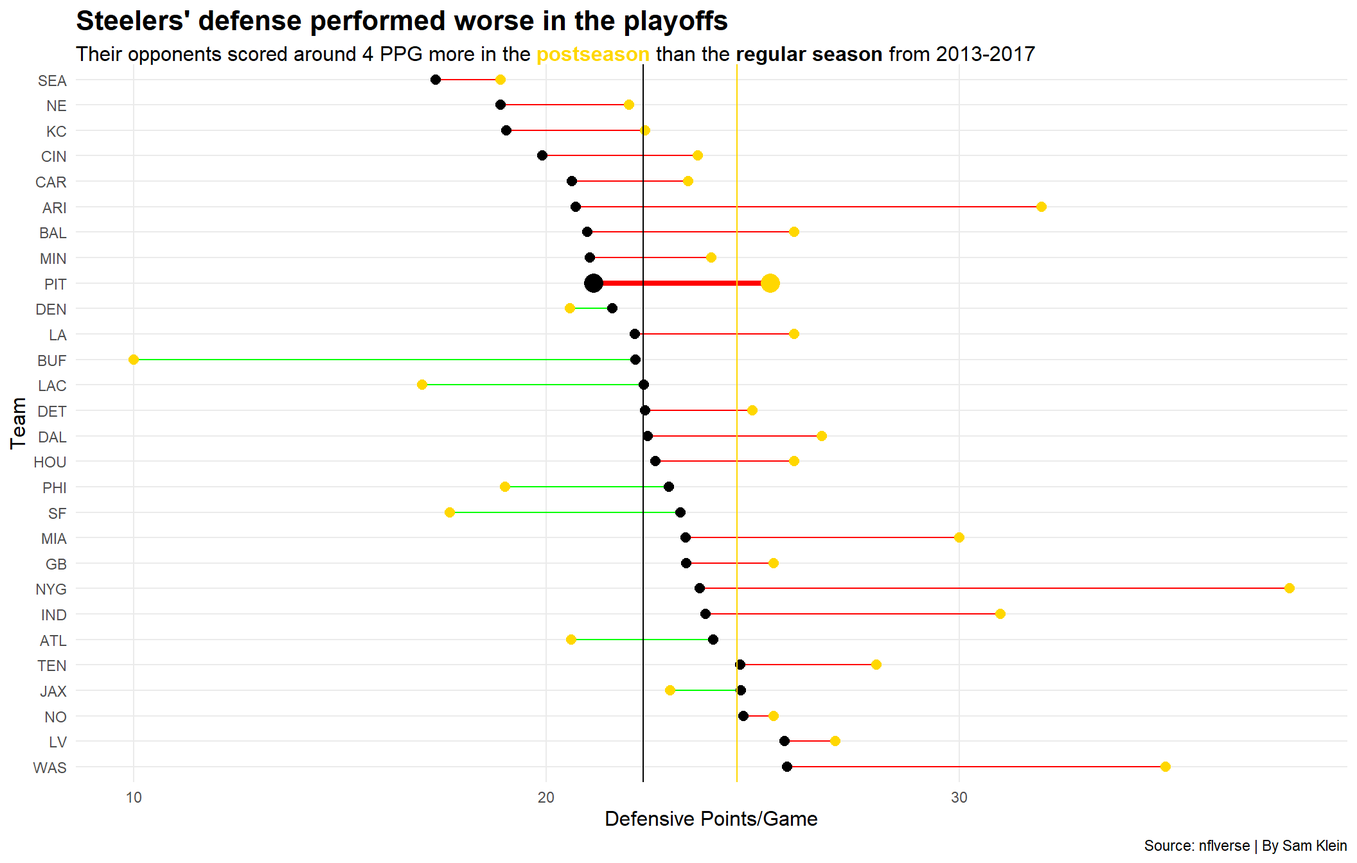
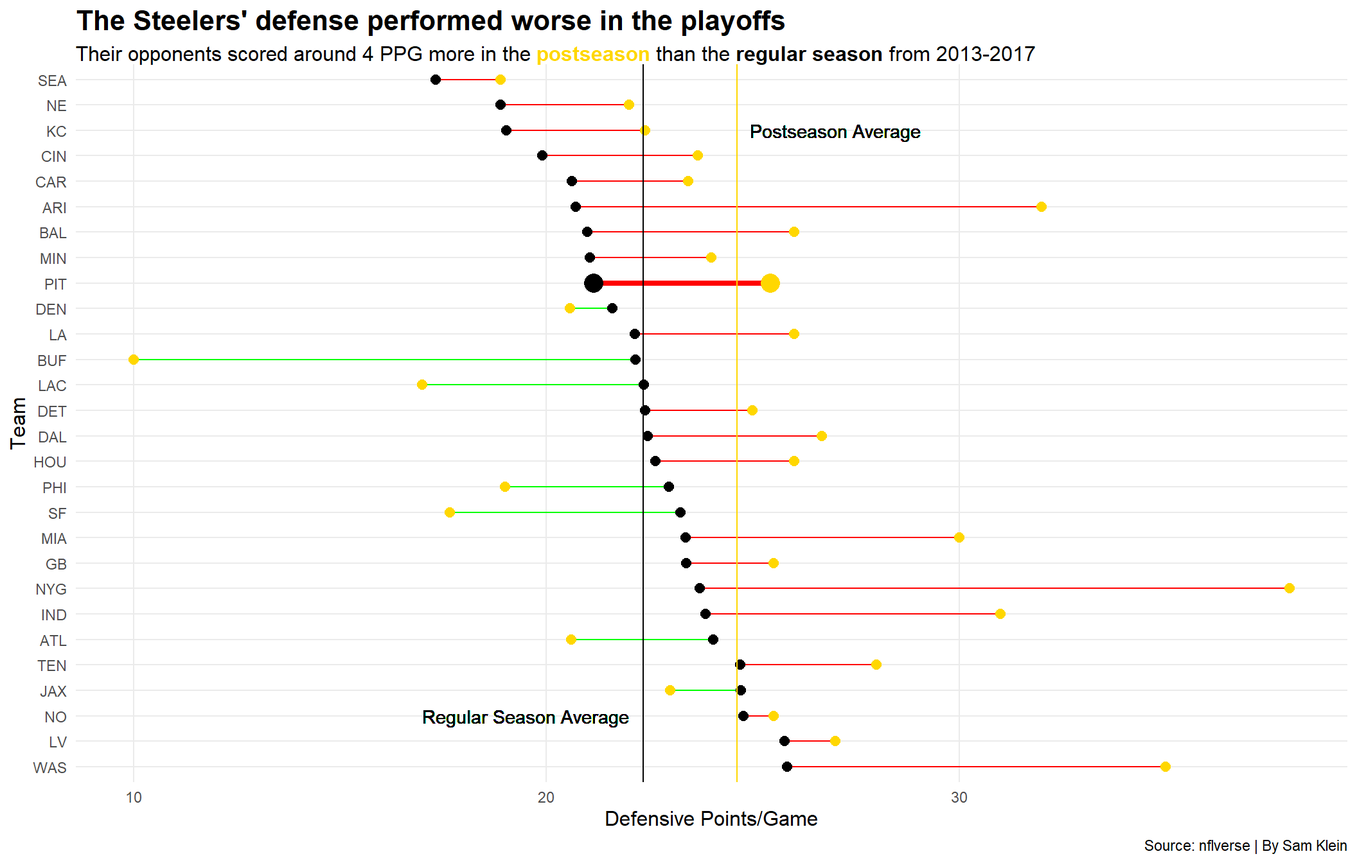
initial commit

Changed region(s): [[0.0625, 0.0, 0.5938, 0.0625], [0.3125, 0.8125, 0.4688, 0.8438], [0.5625, 0.125, 0.6875, 0.1562]]

diff --git a/posts/pittsburgh-steelers-killer-bs/index.html b/posts/pittsburgh-steelers-killer-bs/index.html
@@ -195,8 +195,13 @@ pre > code.sourceCode > span > a:first-child::before { text-decoration: underlin
 
 
 
-<p>The Pittsburgh Steelers are the best team in the NFL by far (no bias here).</p>
-<p>Here’s how good they are:</p>
+<p>The Pittsburgh Steelers are one of the most storied franchises in the NFL, with their 6 Super Bowls tying the Patriots for the most in the league. In recent years, however, the Steelers have taken a notable downturn. Their last Super Bowl win was in 2008, their last Super Bowl appearance was in 2010, and their last playoff win was in 2016. In Pittsburgh, the standard is Super Bowls, and the organization simply isn’t maintaining that standard.</p>
+<p>This isn’t to stay that the Steelers haven’t had their chances. Since their last Super Bowl appearance in 2010, the Steelers have reached the playoffs in 9 out of 14 years. The Steelers won the competitive AFC North in 4 of those years, with 3 titles from 2013-2017.</p>
+<p>This period is crucial. In the NFL - or any professional sports league for that matter - championship windows come and go quickly. An organization needs to recognize when they have a team capable of winning it all so that they can go all-in to ensure the team accomplishes its goal.</p>
+<p>So what was so different about these 5 years?</p>
+<p>Enter “The Killer B’s”, the extremely potent offensive trio of quarterback Ben Roethlisberger, running back Le’Veon Bell, and wide receiver Antonio Brown.</p>
+<p>When this trio took the field, they were borderline unstoppable, and their accolades proved it. From 2013-2017, Roethlisberger, Bell, and Brown earned a combined 6 first-team All-Pro selections - for reference, the highly-regarded Cowboys’ “Triplets” earned a combined 5 first-team All-Pro selections in 10 seasons. The Killer B’s weren’t just insanely good - they were historically good.</p>
+<p>Needless to say, The Killer B’s were head and shoulders above the rest in yards from 2013-2017.</p>
 <div class="cell">
 <details class="code-fold">
 <summary>Code</summary>
@@ -465,6 +470,9 @@ pre > code.sourceCode > span > a:first-child::before { text-decoration: underlin
 </div>
 </div>
 </div>
+<p>So, what exactly held this team back?</p>
+<p>Football isn’t basketball - a team needs more than a couple of superstars to carry them over the hump and, importantly, there’s still a whole other phase of the game to consider.</p>
+<p>The Steelers defense from 2013-2017 isn’t as flashy. In the same span that The Killer B’s had 6 combined first-team All-Pro selections, the Steelers’ defense had ONE: Cameron Heyward in 2017. Surely, this lack of production on the defensive side would hold them back, right?</p>
 <div class="cell">
 <details class="code-fold">
 <summary>Code</summary>
@@ -527,33 +535,33 @@ pre > code.sourceCode > span > a:first-child::before { text-decoration: underlin
 <span id="cb2-57"><a href="#cb2-57" aria-hidden="true" tabindex="-1"></a>    <span class="at">alpha =</span> .<span class="dv">3</span></span>
 <span id="cb2-58"><a href="#cb2-58" aria-hidden="true" tabindex="-1"></a>  ) <span class="sc">+</span></span>
 <span id="cb2-59"><a href="#cb2-59" aria-hidden="true" tabindex="-1"></a>  <span class="fu">geom_point</span>(</span>
-<span id="cb2-60"><a href="#cb2-60" aria-hidden="true" tabindex="-1"></a>    <span class="at">data =</span> steelers,</span>
+<span id="cb2-60"><a href="#cb2-60" aria-hidden="true" tabindex="-1"></a>    <span class="at">data =</span> ravens,</span>
 <span id="cb2-61"><a href="#cb2-61" aria-hidden="true" tabindex="-1"></a>    <span class="fu">aes</span>(<span class="at">x =</span> offppg, <span class="at">y =</span> defppg, <span class="at">size =</span> wins),</span>
-<span id="cb2-62"><a href="#cb2-62" aria-hidden="true" tabindex="-1"></a>    <span class="at">color =</span> <span class="st">"#FFB612"</span></span>
+<span id="cb2-62"><a href="#cb2-62" aria-hidden="true" tabindex="-1"></a>    <span class="at">color =</span> <span class="st">"#241773"</span></span>
 <span id="cb2-63"><a href="#cb2-63" aria-hidden="true" tabindex="-1"></a>  ) <span class="sc">+</span></span>
 <span id="cb2-64"><a href="#cb2-64" aria-hidden="true" tabindex="-1"></a>  <span class="fu">geom_point</span>(</span>
-<span id="cb2-65"><a href="#cb2-65" aria-hidden="true" tabindex="-1"></a>    <span class="at">data =</span> ravens,</span>
+<span id="cb2-65"><a href="#cb2-65" aria-hidden="true" tabindex="-1"></a>    <span class="at">data =</span> bengals,</span>
 <span id="cb2-66"><a href="#cb2-66" aria-hidden="true" tabindex="-1"></a>    <span class="fu">aes</span>(<span class="at">x =</span> offppg, <span class="at">y =</span> defppg, <span class="at">size =</span> wins),</span>
-<span id="cb2-67"><a href="#cb2-67" aria-hidden="true" tabindex="-1"></a>    <span class="at">color =</span> <span class="st">"#241773"</span></span>
+<span id="cb2-67"><a href="#cb2-67" aria-hidden="true" tabindex="-1"></a>    <span class="at">color =</span> <span class="st">"#FB4F14"</span></span>
 <span id="cb2-68"><a href="#cb2-68" aria-hidden="true" tabindex="-1"></a>  ) <span class="sc">+</span></span>
 <span id="cb2-69"><a href="#cb2-69" aria-hidden="true" tabindex="-1"></a>  <span class="fu">geom_point</span>(</span>
-<span id="cb2-70"><a href="#cb2-70" aria-hidden="true" tabindex="-1"></a>    <span class="at">data =</span> bengals,</span>
+<span id="cb2-70"><a href="#cb2-70" aria-hidden="true" tabindex="-1"></a>    <span class="at">data =</span> browns,</span>
 <span id="cb2-71"><a href="#cb2-71" aria-hidden="true" tabindex="-1"></a>    <span class="fu">aes</span>(<span class="at">x =</span> offppg, <span class="at">y =</span> defppg, <span class="at">size =</span> wins),</span>
-<span id="cb2-72"><a href="#cb2-72" aria-hidden="true" tabindex="-1"></a>    <span class="at">color =</span> <span class="st">"#FB4F14"</span></span>
+<span id="cb2-72"><a href="#cb2-72" aria-hidden="true" tabindex="-1"></a>    <span class="at">color =</span> <span class="st">"#311D00"</span></span>
 <span id="cb2-73"><a href="#cb2-73" aria-hidden="true" tabindex="-1"></a>  ) <span class="sc">+</span></span>
 <span id="cb2-74"><a href="#cb2-74" aria-hidden="true" tabindex="-1"></a>  <span class="fu">geom_point</span>(</span>
-<span id="cb2-75"><a href="#cb2-75" aria-hidden="true" tabindex="-1"></a>    <span class="at">data =</span> browns,</span>
+<span id="cb2-75"><a href="#cb2-75" aria-hidden="true" tabindex="-1"></a>    <span class="at">data =</span> patriots,</span>
 <span id="cb2-76"><a href="#cb2-76" aria-hidden="true" tabindex="-1"></a>    <span class="fu">aes</span>(<span class="at">x =</span> offppg, <span class="at">y =</span> defppg, <span class="at">size =</span> wins),</span>
-<span id="cb2-77"><a href="#cb2-77" aria-hidden="true" tabindex="-1"></a>    <span class="at">color =</span> <span class="st">"#311D00"</span></span>
+<span id="cb2-77"><a href="#cb2-77" aria-hidden="true" tabindex="-1"></a>    <span class="at">color =</span> <span class="st">"#002244"</span></span>
 <span id="cb2-78"><a href="#cb2-78" aria-hidden="true" tabindex="-1"></a>  ) <span class="sc">+</span></span>
 <span id="cb2-79"><a href="#cb2-79" aria-hidden="true" tabindex="-1"></a>  <span class="fu">geom_point</span>(</span>
-<span id="cb2-80"><a href="#cb2-80" aria-hidden="true" tabindex="-1"></a>    <span class="at">data =</span> patriots,</span>
+<span id="cb2-80"><a href="#cb2-80" aria-hidden="true" tabindex="-1"></a>    <span class="at">data =</span> steelers,</span>
 <span id="cb2-81"><a href="#cb2-81" aria-hidden="true" tabindex="-1"></a>    <span class="fu">aes</span>(<span class="at">x =</span> offppg, <span class="at">y =</span> defppg, <span class="at">size =</span> wins),</span>
-<span id="cb2-82"><a href="#cb2-82" aria-hidden="true" tabindex="-1"></a>    <span class="at">color =</span> <span class="st">"#002244"</span></span>
+<span id="cb2-82"><a href="#cb2-82" aria-hidden="true" tabindex="-1"></a>    <span class="at">color =</span> <span class="st">"#FFB612"</span></span>
 <span id="cb2-83"><a href="#cb2-83" aria-hidden="true" tabindex="-1"></a>  ) <span class="sc">+</span></span>
 <span id="cb2-84"><a href="#cb2-84" aria-hidden="true" tabindex="-1"></a>  <span class="fu">geom_text_repel</span>(</span>
 <span id="cb2-85"><a href="#cb2-85" aria-hidden="true" tabindex="-1"></a>    <span class="at">data =</span> steelers,</span>
-<span id="cb2-86"><a href="#cb2-86" aria-hidden="true" tabindex="-1"></a>    <span class="fu">aes</span>(<span class="at">x =</span> offppg, <span class="at">y =</span> defppg <span class="sc">+</span> .<span class="dv">2</span>, <span class="at">label =</span> team)</span>
+<span id="cb2-86"><a href="#cb2-86" aria-hidden="true" tabindex="-1"></a>    <span class="fu">aes</span>(<span class="at">x =</span> offppg<span class="fl">-.1</span>, <span class="at">y =</span> defppg <span class="sc">+</span> .<span class="dv">2</span>, <span class="at">label =</span> team)</span>
 <span id="cb2-87"><a href="#cb2-87" aria-hidden="true" tabindex="-1"></a>  ) <span class="sc">+</span></span>
 <span id="cb2-88"><a href="#cb2-88" aria-hidden="true" tabindex="-1"></a>  <span class="fu">geom_text_repel</span>(</span>
 <span id="cb2-89"><a href="#cb2-89" aria-hidden="true" tabindex="-1"></a>    <span class="at">data =</span> ravens,</span>
@@ -571,23 +579,43 @@ pre > code.sourceCode > span > a:first-child::before { text-decoration: underlin
 <span id="cb2-101"><a href="#cb2-101" aria-hidden="true" tabindex="-1"></a>    <span class="at">data =</span> patriots,</span>
 <span id="cb2-102"><a href="#cb2-102" aria-hidden="true" tabindex="-1"></a>    <span class="fu">aes</span>(<span class="at">x =</span> offppg <span class="sc">-</span> .<span class="dv">1</span>, <span class="at">y =</span> defppg, <span class="at">label =</span> team)</span>
 <span id="cb2-103"><a href="#cb2-103" aria-hidden="true" tabindex="-1"></a>  ) <span class="sc">+</span></span>
-<span id="cb2-104"><a href="#cb2-104" aria-hidden="true" tabindex="-1"></a>  <span class="fu">geom_vline</span>(<span class="at">xintercept =</span> mean_offppg) <span class="sc">+</span></span>
-<span id="cb2-105"><a href="#cb2-105" aria-hidden="true" tabindex="-1"></a>  <span class="fu">geom_hline</span>(<span class="at">yintercept =</span> mean_defppg) <span class="sc">+</span></span>
-<span id="cb2-106"><a href="#cb2-106" aria-hidden="true" tabindex="-1"></a>  <span class="fu">scale_size</span>(<span class="at">range =</span> <span class="fu">c</span>(<span class="dv">1</span>, <span class="dv">10</span>), <span class="at">name =</span> <span class="st">"Wins"</span>) <span class="sc">+</span></span>
-<span id="cb2-107"><a href="#cb2-107" aria-hidden="true" tabindex="-1"></a>  <span class="fu">labs</span>(</span>
-<span id="cb2-108"><a href="#cb2-108" aria-hidden="true" tabindex="-1"></a>    <span class="at">x =</span> <span class="st">"Offensive Points/Game"</span>,</span>
-<span id="cb2-109"><a href="#cb2-109" aria-hidden="true" tabindex="-1"></a>    <span class="at">y =</span> <span class="st">"Defensive Points/Game"</span>,</span>
-<span id="cb2-110"><a href="#cb2-110" aria-hidden="true" tabindex="-1"></a>    <span class="at">title =</span> <span class="st">"The Steelers' offense and defense were strongly above the league average"</span>,</span>
-<span id="cb2-111"><a href="#cb2-111" aria-hidden="true" tabindex="-1"></a>    <span class="at">subtitle =</span> <span class="st">"While not at the top of the league, Pittsburgh firmly established itself as a perennial playoff team from 2013-2017"</span>,</span>
-<span id="cb2-112"><a href="#cb2-112" aria-hidden="true" tabindex="-1"></a>    <span class="at">caption =</span> <span class="st">"Source: nflverse | By Sam Klein"</span></span>
+<span id="cb2-104"><a href="#cb2-104" aria-hidden="true" tabindex="-1"></a>  <span class="fu">geom_text_repel</span>(</span>
+<span id="cb2-105"><a href="#cb2-105" aria-hidden="true" tabindex="-1"></a>    <span class="at">data =</span> <span class="cn">NULL</span>, </span>
+<span id="cb2-106"><a href="#cb2-106" aria-hidden="true" tabindex="-1"></a>    <span class="fu">aes</span>(<span class="at">x =</span> <span class="fl">27.5</span>, <span class="at">y =</span> <span class="dv">21</span>, <span class="at">label =</span> <span class="st">"Good Offense, Good Defense"</span>, <span class="at">size =</span> <span class="dv">25</span>),</span>
+<span id="cb2-107"><a href="#cb2-107" aria-hidden="true" tabindex="-1"></a>    <span class="at">show.legend =</span> <span class="cn">FALSE</span></span>
+<span id="cb2-108"><a href="#cb2-108" aria-hidden="true" tabindex="-1"></a>  ) <span class="sc">+</span></span>
+<span id="cb2-109"><a href="#cb2-109" aria-hidden="true" tabindex="-1"></a>  <span class="fu">geom_text_repel</span>(</span>
+<span id="cb2-110"><a href="#cb2-110" aria-hidden="true" tabindex="-1"></a>    <span class="at">data =</span> <span class="cn">NULL</span>, </span>
+<span id="cb2-111"><a href="#cb2-111" aria-hidden="true" tabindex="-1"></a>    <span class="fu">aes</span>(<span class="at">x =</span> <span class="dv">25</span>, <span class="at">y =</span> <span class="fl">25.5</span>, <span class="at">label =</span> <span class="st">"Good Offense, Bad Defense"</span>, <span class="at">size =</span> <span class="dv">25</span>),</span>
+<span id="cb2-112"><a href="#cb2-112" aria-hidden="true" tabindex="-1"></a>    <span class="at">show.legend =</span> <span class="cn">FALSE</span></span>
 <span id="cb2-113"><a href="#cb2-113" aria-hidden="true" tabindex="-1"></a>  ) <span class="sc">+</span></span>
-<span id="cb2-114"><a href="#cb2-114" aria-hidden="true" tabindex="-1"></a>  <span class="fu">theme_minimal</span>() <span class="sc">+</span></span>
-<span id="cb2-115"><a href="#cb2-115" aria-hidden="true" tabindex="-1"></a>  <span class="fu">theme</span>(</span>
-<span id="cb2-116"><a href="#cb2-116" aria-hidden="true" tabindex="-1"></a>    <span class="at">plot.title =</span> <span class="fu">element_text</span>(<span class="at">size =</span> <span class="dv">16</span>, <span class="at">face =</span> <span class="st">"bold"</span>),</span>
-<span id="cb2-117"><a href="#cb2-117" aria-hidden="true" tabindex="-1"></a>    <span class="at">axis.title =</span> <span class="fu">element_text</span>(<span class="at">size =</span> <span class="dv">12</span>),</span>
-<span id="cb2-118"><a href="#cb2-118" aria-hidden="true" tabindex="-1"></a>    <span class="at">plot.subtitle =</span> <span class="fu">element_text</span>(<span class="at">size =</span> <span class="dv">12</span>),</span>
-<span id="cb2-119"><a href="#cb2-119" aria-hidden="true" tabindex="-1"></a>    <span class="at">panel.grid.minor =</span> <span class="fu">element_blank</span>()</span>
-<span id="cb2-120"><a href="#cb2-120" aria-hidden="true" tabindex="-1"></a>  )</span></code><button title="Copy to Clipboard" class="code-copy-button"><i class="bi"></i></button></pre></div>
+<span id="cb2-114"><a href="#cb2-114" aria-hidden="true" tabindex="-1"></a>  <span class="fu">geom_text_repel</span>(</span>
+<span id="cb2-115"><a href="#cb2-115" aria-hidden="true" tabindex="-1"></a>    <span class="at">data =</span> <span class="cn">NULL</span>, </span>
+<span id="cb2-116"><a href="#cb2-116" aria-hidden="true" tabindex="-1"></a>    <span class="fu">aes</span>(<span class="at">x =</span> <span class="dv">20</span>, <span class="at">y =</span> <span class="dv">20</span>, <span class="at">label =</span> <span class="st">"Bad Offense, Good Defense"</span>, <span class="at">size =</span> <span class="dv">25</span>),</span>
+<span id="cb2-117"><a href="#cb2-117" aria-hidden="true" tabindex="-1"></a>    <span class="at">show.legend =</span> <span class="cn">FALSE</span></span>
+<span id="cb2-118"><a href="#cb2-118" aria-hidden="true" tabindex="-1"></a>  ) <span class="sc">+</span></span>
+<span id="cb2-119"><a href="#cb2-119" aria-hidden="true" tabindex="-1"></a>  <span class="fu">geom_text_repel</span>(</span>
+<span id="cb2-120"><a href="#cb2-120" aria-hidden="true" tabindex="-1"></a>    <span class="at">data =</span> <span class="cn">NULL</span>, </span>
+<span id="cb2-121"><a href="#cb2-121" aria-hidden="true" tabindex="-1"></a>    <span class="fu">aes</span>(<span class="at">x =</span> <span class="fl">16.5</span>, <span class="at">y =</span> <span class="fl">24.25</span>, <span class="at">label =</span> <span class="st">"Bad Offense, Bad Defense"</span>, <span class="at">size =</span> <span class="dv">25</span>),</span>
+<span id="cb2-122"><a href="#cb2-122" aria-hidden="true" tabindex="-1"></a>    <span class="at">show.legend =</span> <span class="cn">FALSE</span></span>
+<span id="cb2-123"><a href="#cb2-123" aria-hidden="true" tabindex="-1"></a>  ) <span class="sc">+</span></span>
+<span id="cb2-124"><a href="#cb2-124" aria-hidden="true" tabindex="-1"></a>  <span class="fu">geom_vline</span>(<span class="at">xintercept =</span> mean_offppg) <span class="sc">+</span></span>
+<span id="cb2-125"><a href="#cb2-125" aria-hidden="true" tabindex="-1"></a>  <span class="fu">geom_hline</span>(<span class="at">yintercept =</span> mean_defppg) <span class="sc">+</span></span>
+<span id="cb2-126"><a href="#cb2-126" aria-hidden="true" tabindex="-1"></a>  <span class="fu">scale_size</span>(<span class="at">range =</span> <span class="fu">c</span>(<span class="dv">1</span>, <span class="dv">10</span>), <span class="at">name =</span> <span class="st">"Wins"</span>) <span class="sc">+</span></span>
+<span id="cb2-127"><a href="#cb2-127" aria-hidden="true" tabindex="-1"></a>  <span class="fu">labs</span>(</span>
+<span id="cb2-128"><a href="#cb2-128" aria-hidden="true" tabindex="-1"></a>    <span class="at">x =</span> <span class="st">"Offensive Points/Game"</span>,</span>
+<span id="cb2-129"><a href="#cb2-129" aria-hidden="true" tabindex="-1"></a>    <span class="at">y =</span> <span class="st">"Defensive Points/Game"</span>,</span>
+<span id="cb2-130"><a href="#cb2-130" aria-hidden="true" tabindex="-1"></a>    <span class="at">title =</span> <span class="st">"The Steelers' offense and defense were strongly above the league average"</span>,</span>
+<span id="cb2-131"><a href="#cb2-131" aria-hidden="true" tabindex="-1"></a>    <span class="at">subtitle =</span> <span class="st">"While not at the top of the league, Pittsburgh firmly established itself as a perennial playoff team from 2013-2017"</span>,</span>
+<span id="cb2-132"><a href="#cb2-132" aria-hidden="true" tabindex="-1"></a>    <span class="at">caption =</span> <span class="st">"Source: nflverse | By Sam Klein"</span></span>
+<span id="cb2-133"><a href="#cb2-133" aria-hidden="true" tabindex="-1"></a>  ) <span class="sc">+</span></span>
+<span id="cb2-134"><a href="#cb2-134" aria-hidden="true" tabindex="-1"></a>  <span class="fu">theme_minimal</span>() <span class="sc">+</span></span>
+<span id="cb2-135"><a href="#cb2-135" aria-hidden="true" tabindex="-1"></a>  <span class="fu">theme</span>(</span>
+<span id="cb2-136"><a href="#cb2-136" aria-hidden="true" tabindex="-1"></a>    <span class="at">plot.title =</span> <span class="fu">element_text</span>(<span class="at">size =</span> <span class="dv">16</span>, <span class="at">face =</span> <span class="st">"bold"</span>),</span>
+<span id="cb2-137"><a href="#cb2-137" aria-hidden="true" tabindex="-1"></a>    <span class="at">axis.title =</span> <span class="fu">element_text</span>(<span class="at">size =</span> <span class="dv">12</span>),</span>
+<span id="cb2-138"><a href="#cb2-138" aria-hidden="true" tabindex="-1"></a>    <span class="at">plot.subtitle =</span> <span class="fu">element_text</span>(<span class="at">size =</span> <span class="dv">12</span>),</span>
+<span id="cb2-139"><a href="#cb2-139" aria-hidden="true" tabindex="-1"></a>    <span class="at">panel.grid.minor =</span> <span class="fu">element_blank</span>()</span>
+<span id="cb2-140"><a href="#cb2-140" aria-hidden="true" tabindex="-1"></a>  )</span></code><button title="Copy to Clipboard" class="code-copy-button"><i class="bi"></i></button></pre></div>
 </details>
 <div class="cell-output-display">
 <div>
@@ -597,6 +625,12 @@ pre > code.sourceCode > span > a:first-child::before { text-decoration: underlin
 </div>
 </div>
 </div>
+<p>Surprisingly, the defense… wasn’t the issue. Although the Steelers’ divisional foes - other than the abysmal Browns - held their opponents to fewer points per game, the Steelers’ offensive output more than compensated, and their defense still performed above the average.</p>
+<p>Notably, the Patriots posted the best offense and third-best defense in this span. Perhaps the Steelers’ lack of success could be chalked up to competing against a dynasty.</p>
+<p>There is a slight problem with this theory - the Steelers only met the Patriots ONCE during the postseason from 2013-2017, where they were thoroughly demolished in the 2016 AFC Championship game.</p>
+<p>So, if the Steelers didn’t run into the buzzsaw that was the Patriots, then what’s up with the lack of Super Bowl appearances and titles?</p>
+<p>Scheming and game-planning can only take you so far. At some point, teams need talent to elevate them to new heights, and it quickly became clear that the Steelers just didn’t have enough talent on defense.</p>
+<p>The Steelers played 7 postseason games from 2013-2017 and, unfortunately, their defense didn’t show up like it had in the regular season for many of those games.</p>
 <div class="cell">
 <details class="code-fold">
 <summary>Code</summary>
@@ -631,21 +665,23 @@ pre > code.sourceCode > span > a:first-child::before { text-decoration: underlin
 <span id="cb3-29"><a href="#cb3-29" aria-hidden="true" tabindex="-1"></a>  <span class="fu">geom_point</span>(<span class="at">data =</span> steelers, <span class="fu">aes</span>(<span class="at">x =</span> defppg_POST), <span class="at">color =</span> <span class="st">"gold"</span>, <span class="at">size =</span> <span class="dv">5</span>) <span class="sc">+</span></span>
 <span id="cb3-30"><a href="#cb3-30" aria-hidden="true" tabindex="-1"></a>  <span class="fu">geom_vline</span>(<span class="at">xintercept =</span> mean_defppg_REG, <span class="at">color =</span> <span class="st">"black"</span>) <span class="sc">+</span></span>
 <span id="cb3-31"><a href="#cb3-31" aria-hidden="true" tabindex="-1"></a>  <span class="fu">geom_vline</span>(<span class="at">xintercept =</span> mean_defppg_POST, <span class="at">color =</span> <span class="st">"gold"</span>) <span class="sc">+</span></span>
-<span id="cb3-32"><a href="#cb3-32" aria-hidden="true" tabindex="-1"></a>  <span class="fu">theme_minimal</span>() <span class="sc">+</span></span>
-<span id="cb3-33"><a href="#cb3-33" aria-hidden="true" tabindex="-1"></a>  <span class="fu">labs</span>(</span>
-<span id="cb3-34"><a href="#cb3-34" aria-hidden="true" tabindex="-1"></a>    <span class="at">x =</span> <span class="st">"Defensive Points/Game"</span>,</span>
-<span id="cb3-35"><a href="#cb3-35" aria-hidden="true" tabindex="-1"></a>    <span class="at">y =</span> <span class="st">"Team"</span>,</span>
-<span id="cb3-36"><a href="#cb3-36" aria-hidden="true" tabindex="-1"></a>    <span class="at">title =</span> <span class="st">"Steelers' defense performed worse in the playoffs"</span>,</span>
-<span id="cb3-37"><a href="#cb3-37" aria-hidden="true" tabindex="-1"></a>    <span class="at">subtitle =</span> <span class="st">"Their opponents scored around 4 PPG more in the &lt;span style='color:gold;'&gt;**postseason**&lt;/span&gt; than the &lt;span style='color:black'&gt;**regular season**&lt;/span&gt; from 2013-2017"</span>,</span>
-<span id="cb3-38"><a href="#cb3-38" aria-hidden="true" tabindex="-1"></a>    <span class="at">caption =</span> <span class="st">"Source: nflverse | By Sam Klein"</span></span>
-<span id="cb3-39"><a href="#cb3-39" aria-hidden="true" tabindex="-1"></a>  ) <span class="sc">+</span></span>
-<span id="cb3-40"><a href="#cb3-40" aria-hidden="true" tabindex="-1"></a>  <span class="fu">theme</span>(</span>
-<span id="cb3-41"><a href="#cb3-41" aria-hidden="true" tabindex="-1"></a>    <span class="at">legend.position =</span> <span class="st">"none"</span>,</span>
-<span id="cb3-42"><a href="#cb3-42" aria-hidden="true" tabindex="-1"></a>    <span class="at">plot.title =</span> <span class="fu">element_text</span>(<span class="at">size =</span> <span class="dv">16</span>, <span class="at">face =</span> <span class="st">"bold"</span>),</span>
-<span id="cb3-43"><a href="#cb3-43" aria-hidden="true" tabindex="-1"></a>    <span class="at">plot.subtitle =</span> <span class="fu">element_textbox_simple</span>(<span class="at">size =</span> <span class="dv">12</span>),</span>
-<span id="cb3-44"><a href="#cb3-44" aria-hidden="true" tabindex="-1"></a>    <span class="at">axis.title =</span> <span class="fu">element_text</span>(<span class="at">size =</span> <span class="dv">12</span>),</span>
-<span id="cb3-45"><a href="#cb3-45" aria-hidden="true" tabindex="-1"></a>    <span class="at">panel.grid.minor =</span> <span class="fu">element_blank</span>()</span>
-<span id="cb3-46"><a href="#cb3-46" aria-hidden="true" tabindex="-1"></a>  )</span></code><button title="Copy to Clipboard" class="code-copy-button"><i class="bi"></i></button></pre></div>
+<span id="cb3-32"><a href="#cb3-32" aria-hidden="true" tabindex="-1"></a>  <span class="fu">geom_text</span>(<span class="at">data =</span> <span class="cn">NULL</span>, <span class="fu">aes</span>(<span class="at">x =</span> <span class="dv">27</span>, <span class="at">y =</span> <span class="st">"KC"</span>, <span class="at">label =</span> <span class="st">"Postseason Average"</span>)) <span class="sc">+</span></span>
+<span id="cb3-33"><a href="#cb3-33" aria-hidden="true" tabindex="-1"></a>  <span class="fu">geom_text</span>(<span class="at">data =</span> <span class="cn">NULL</span>, <span class="fu">aes</span>(<span class="at">x =</span> <span class="fl">19.5</span>, <span class="at">y =</span> <span class="st">"NO"</span>, <span class="at">label =</span> <span class="st">"Regular Season Average"</span>)) <span class="sc">+</span></span>
+<span id="cb3-34"><a href="#cb3-34" aria-hidden="true" tabindex="-1"></a>  <span class="fu">theme_minimal</span>() <span class="sc">+</span></span>
+<span id="cb3-35"><a href="#cb3-35" aria-hidden="true" tabindex="-1"></a>  <span class="fu">labs</span>(</span>
+<span id="cb3-36"><a href="#cb3-36" aria-hidden="true" tabindex="-1"></a>    <span class="at">x =</span> <span class="st">"Defensive Points/Game"</span>,</span>
+<span id="cb3-37"><a href="#cb3-37" aria-hidden="true" tabindex="-1"></a>    <span class="at">y =</span> <span class="st">"Team"</span>,</span>
+<span id="cb3-38"><a href="#cb3-38" aria-hidden="true" tabindex="-1"></a>    <span class="at">title =</span> <span class="st">"The Steelers' defense performed worse in the playoffs"</span>,</span>
+<span id="cb3-39"><a href="#cb3-39" aria-hidden="true" tabindex="-1"></a>    <span class="at">subtitle =</span> <span class="st">"Their opponents scored around 4 PPG more in the &lt;span style='color:gold;'&gt;**postseason**&lt;/span&gt; than the &lt;span style='color:black'&gt;**regular season**&lt;/span&gt; from 2013-2017"</span>,</span>
+<span id="cb3-40"><a href="#cb3-40" aria-hidden="true" tabindex="-1"></a>    <span class="at">caption =</span> <span class="st">"Source: nflverse | By Sam Klein"</span></span>
+<span id="cb3-41"><a href="#cb3-41" aria-hidden="true" tabindex="-1"></a>  ) <span class="sc">+</span></span>
+<span id="cb3-42"><a href="#cb3-42" aria-hidden="true" tabindex="-1"></a>  <span class="fu">theme</span>(</span>
+<span id="cb3-43"><a href="#cb3-43" aria-hidden="true" tabindex="-1"></a>    <span class="at">legend.position =</span> <span class="st">"none"</span>,</span>
+<span id="cb3-44"><a href="#cb3-44" aria-hidden="true" tabindex="-1"></a>    <span class="at">plot.title =</span> <span class="fu">element_text</span>(<span class="at">size =</span> <span class="dv">16</span>, <span class="at">face =</span> <span class="st">"bold"</span>),</span>
+<span id="cb3-45"><a href="#cb3-45" aria-hidden="true" tabindex="-1"></a>    <span class="at">plot.subtitle =</span> <span class="fu">element_textbox_simple</span>(<span class="at">size =</span> <span class="dv">12</span>),</span>
+<span id="cb3-46"><a href="#cb3-46" aria-hidden="true" tabindex="-1"></a>    <span class="at">axis.title =</span> <span class="fu">element_text</span>(<span class="at">size =</span> <span class="dv">12</span>),</span>
+<span id="cb3-47"><a href="#cb3-47" aria-hidden="true" tabindex="-1"></a>    <span class="at">panel.grid.minor =</span> <span class="fu">element_blank</span>()</span>
+<span id="cb3-48"><a href="#cb3-48" aria-hidden="true" tabindex="-1"></a>  )</span></code><button title="Copy to Clipboard" class="code-copy-button"><i class="bi"></i></button></pre></div>
 </details>
 <div class="cell-output-display">
 <div>
@@ -655,6 +691,10 @@ pre > code.sourceCode > span > a:first-child::before { text-decoration: underlin
 </div>
 </div>
 </div>
+<p>Four points are critical in playoff games, where many come down to game-winning field goals or last-second miracle plays. The defense that performed above the regular season average for points per game fell below the postseason average.</p>
+<p>The most egregious instance of the defense underperforming was in the 2017 playoffs, where the hosting Steelers allowed a Blake Bortles-led Jaguars team to score 45 points in a massive upset.</p>
+<p>It wasn’t known at the time, but this game marked the end of the Killer B’s era. Bell held out in 2018 before signing with the Jets in 2019, while Brown played one more season in Pittsburgh before forcing his way out in 2019. Bell and Brown’s departures left an aging Roethlisberger in control of a severely depleted offense, and the Steelers’ Super Bowl window was effectively closed.</p>
+<p>The years since haven’t been kind to the Steelers, who are still searching for their first playoff win in the post-Killer B’s era. As the decade mark approaches, fans are left wondering if the Steelers will remain an NFL staple or if they will slip ever further into mediocrity.</p>
 
 
 

diff --git a/index.html b/index.html
@@ -210,7 +210,7 @@ window.Quarto = {
 
 <div class="quarto-listing quarto-listing-container-default" id="listing-listing">
 <div class="list quarto-listing-default">
-<div class="quarto-post image-right" data-index="0" data-categories="Zm9vdGJhbGwlMkNuZmwlMkNzdGVlbGVycw==" data-listing-date-sort="1713070800000" data-listing-file-modified-sort="1744589397563" data-listing-date-modified-sort="NaN" data-listing-reading-time-sort="12" data-listing-word-count-sort="2267">
+<div class="quarto-post image-right" data-index="0" data-categories="Zm9vdGJhbGwlMkNuZmwlMkNzdGVlbGVycw==" data-listing-date-sort="1713070800000" data-listing-file-modified-sort="1744675303439" data-listing-date-modified-sort="NaN" data-listing-reading-time-sort="16" data-listing-word-count-sort="3144">
 <div class="thumbnail">
 <p><a href="./posts/pittsburgh-steelers-killer-bs/index.html" class="no-external"></a></p><a href="./posts/pittsburgh-steelers-killer-bs/index.html" class="no-external">
 <p><img loading="lazy" src="./posts/pittsburgh-steelers-killer-bs/image.png" class="thumbnail-image"></p>
@@ -235,7 +235,7 @@ steelers
 </div>
 </div>
 <div class="listing-description">
-<a href="./posts/pittsburgh-steelers-killer-bs/index.html" class="no-external">The Pittsburgh Steelers are the best team in the NFL by far (no bias here).</a>
+<a href="./posts/pittsburgh-steelers-killer-bs/index.html" class="no-external">The Pittsburgh Steelers are one of the most storied franchises in the NFL, with their 6 Super Bowls tying the Patriots for the most in the league. In recent years, however…</a>
 </div>
 </div>
 <div class="metadata">
